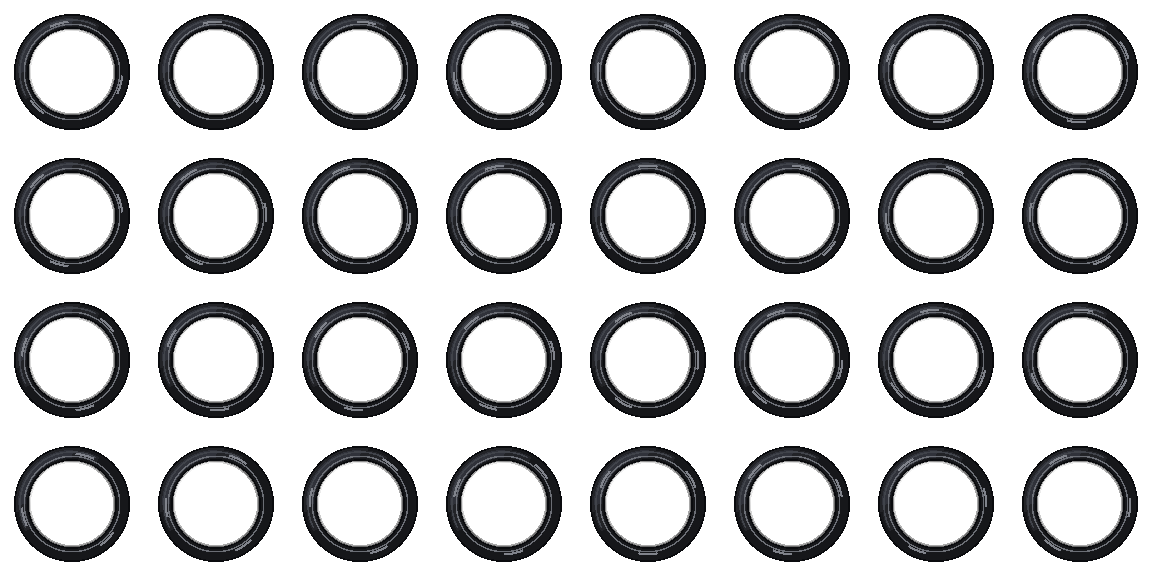
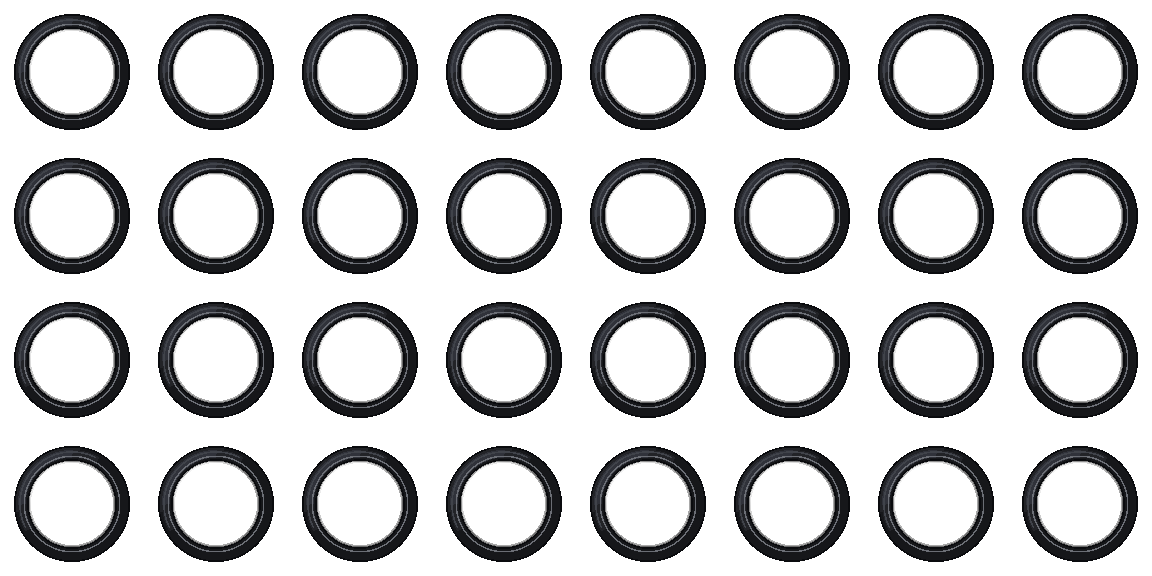
fix(trial): лес объездной рощами с просветами, шины без надписей
Вместо сплошной стены деревьев — композиция как на фото: дальний лес волнами в дымке, рощи по 2–7 деревьев с подростом и просветами неба, луг с сухой травой и редкими ёлочками перед лесом, у обочины — редкие отдельные берёзы (часто парой) и сосны. Тёмная глубина леса — одна плавная фигура без полос. С боковин шин убраны светлые надписи.

diff --git a/src/scenes/bypassWorld.js b/src/scenes/bypassWorld.js
@@ -611,31 +611,84 @@ function chunkObjects(seed, layer, ci, ppm) {
   const meterOf = (x) => x / (layer.k * ppm);
   const add = (kind, x, base, h, haze, w) =>
     list.push({ kind, x, base, h, haze, w, seed: Math.floor(r() * 2 ** 31) });
-  const tree = (b) => {
-    const v = r() * (b.birch + b.pine + b.spruce);
-    return v < b.birch ? 'birch' : v < b.birch + b.pine ? 'pine' : 'spruce';
+  // Плавная «волна» по x: лес то выше и гуще, то ниже и реже — как на опушке у дороги.
+  const wave = (x, len, salt) => {
+    const i = Math.floor(x / len);
+    const t = x / len - i;
+    const u = t * t * (3 - 2 * t);
+    return hash(seed, i, salt) * (1 - u) + hash(seed, i + 1, salt) * u;
   };
+  /**
+   * Рощи: деревья растут группами вокруг центров, между группами — просветы.
+   * Центры раскиданы по своей сетке (по сиду), поэтому соседние куски видят одни и те же рощи.
+   */
+  const groves = (cell, salt, fn) => {
+    for (let n = Math.floor(x0 / cell) - 1; n * cell < x0 + CW + cell; n++) {
+      const gr = rand(hash(seed, n, salt) * 2 ** 32);
+      const cx = n * cell + gr() * cell;
+      fn(cx, gr, n);
+    }
+  };
+  const inChunk = (x) => x >= x0 && x < x0 + CW;
 
   if (layer.id === 'far') {
-    for (let x = x0; x < x0 + CW; x += 2 + r() * 4) {
+    // Дальний лес — сплошная, но неровная полоса в дымке: верхушки волнами.
+    for (let x = x0; x < x0 + CW; x += 4 + r() * 7) {
       const b = biomeAt(seed, meterOf(x));
-      const kind = r() < b.spruce + b.pine * 0.5 ? 'spruce' : 'bush';
-      const h = kind === 'spruce' ? 40 + r() * 55 : 22 + r() * 22;
-      add(kind, x, 214 + r() * 6, h, 0.62 + r() * 0.1, h * 0.85);
-      if (b.clearing > 0.5 && r() < 0.004) add('farHouses', x, 222, 0, 0.5, 90);
+      const tall = 0.45 + 0.55 * wave(x, 140, 11);
+      const kind = r() < b.spruce + b.pine * 0.6 ? 'spruce' : 'bush';
+      const h = (kind === 'spruce' ? 30 + r() * 40 : 16 + r() * 16) * (0.5 + tall);
+      add(kind, x, 215 + r() * 5, h, 0.62 + r() * 0.1, h * 0.85);
+      if (b.clearing > 0.5 && r() < 0.006) add('farHouses', x, 222, 0, 0.5, 90);
     }
   } else if (layer.id === 'mid') {
-    for (let x = x0; x < x0 + CW; x += 9 + r() * 16) {
-      const b = biomeAt(seed, meterOf(x));
-      if (r() > b.density) {
-        if (b.clearing > 0.5 && r() < 0.05) add('hayBale', x, 228, 0, 0.25, 10);
-        continue;
+    // Лес за лугом: рощи по 2–7 деревьев с просветами неба между ними.
+    groves(70, 21, (cx, gr) => {
+      const b = biomeAt(seed, meterOf(cx));
+      if (gr() > b.density * 0.9 + 0.05) {
+        if (b.clearing > 0.5 && gr() < 0.4 && inChunk(cx)) add('hayBale', cx, 228, 0, 0.25, 10);
+        return;
       }
-      const kind = tree(b);
-      const h =
-        kind === 'pine' ? 160 + r() * 70 : kind === 'birch' ? 120 + r() * 70 : 110 + r() * 80;
-      add(kind, x, 218 + r() * 8, h, 0.18 + r() * 0.12, h * 0.35);
-    }
+      const tall = 0.6 + 0.4 * wave(cx, 220, 12);
+      const n = 2 + Math.floor(gr() * 6 * Math.min(1, b.density));
+      for (let i = 0; i < n; i++) {
+        const x = cx + (gr() + gr() - 1) * 28;
+        if (!inChunk(x)) continue;
+        const v = gr() * (b.birch + b.pine + b.spruce);
+        const kind = v < b.birch ? 'birch' : v < b.birch + b.pine ? 'pine' : 'spruce';
+        const h =
+          (kind === 'pine'
+            ? 150 + gr() * 60
+            : kind === 'birch'
+              ? 110 + gr() * 60
+              : 90 + gr() * 80) * tall;
+        list.push({
+          kind,
+          x,
+          base: 218 + gr() * 7,
+          h,
+          haze: 0.2 + gr() * 0.12,
+          w: h * 0.35,
+          seed: Math.floor(gr() * 2 ** 31),
+        });
+      }
+      // Подрост на опушке рощи: молодые ёлочки и кусты пониже.
+      for (let i = 0; i < 1 + gr() * 3; i++) {
+        const x = cx + (gr() - 0.5) * 70;
+        if (!inChunk(x)) continue;
+        const kind = gr() < 0.6 ? 'spruce' : 'bush';
+        const h = kind === 'spruce' ? 28 + gr() * 34 : 12 + gr() * 14;
+        list.push({
+          kind,
+          x,
+          base: 226 + gr() * 3,
+          h,
+          haze: 0.16,
+          w: 25,
+          seed: Math.floor(gr() * 2 ** 31),
+        });
+      }
+    });
   } else if (layer.id === 'back') {
     // Сооружения — редкие, в своих «окнах» по 6 кусков.
     const slot = Math.floor(ci / 6);
@@ -654,22 +707,46 @@ function chunkObjects(seed, layer, ci, ppm) {
         name: pick(rs, STOPS),
       });
     }
-    for (let x = x0; x < x0 + CW; x += 14 + r() * 30) {
-      const b = biomeAt(seed, meterOf(x));
-      if (r() < 0.3 + b.density * 0.3) add('bush', x, 229, 8 + r() * 12, 0.08, 15);
-    }
-  } else if (layer.id === 'near') {
-    for (let x = x0; x < x0 + CW; x += 30 + r() * 70) {
-      const b = biomeAt(seed, meterOf(x));
-      const v = r();
-      if (v < 0.18 * b.density) {
-        const kind = tree(b);
-        const h = kind === 'pine' ? 260 + r() * 80 : 200 + r() * 90;
-        add(kind, x, 233 + r() * 2, h, 0.04, h * 0.35);
-      } else if (v < 0.55) {
-        add(r() < 0.5 ? 'spruce' : 'bush', x, 233, 18 + r() * 30, 0.06, 25);
+    // Луг между дорогой и лесом: сухая трава и редкий подрост — ёлочки, сосенки, кусты.
+    for (let x = x0; x < x0 + CW; x += 2 + r() * 4)
+      add('grass', x, 229 + r() * 2, 6 + r() * 10, 0.1, 8);
+    groves(110, 31, (cx, gr) => {
+      const b = biomeAt(seed, meterOf(cx));
+      if (gr() > 0.35 + b.density * 0.3) return;
+      for (let i = 0; i < 1 + Math.floor(gr() * 3); i++) {
+        const x = cx + (gr() - 0.5) * 40;
+        if (!inChunk(x)) continue;
+        const kind = gr() < 0.45 ? 'spruce' : gr() < 0.6 ? 'pine' : 'bush';
+        const h =
+          kind === 'bush' ? 10 + gr() * 14 : kind === 'pine' ? 40 + gr() * 30 : 22 + gr() * 36;
+        list.push({ kind, x, base: 230, h, haze: 0.08, w: 30, seed: Math.floor(gr() * 2 ** 31) });
       }
-    }
+    });
+  } else if (layer.id === 'near') {
+    // Ближний план: редкие отдельные деревья у обочины — пара берёз, высокая сосна.
+    groves(260, 41, (cx, gr) => {
+      const b = biomeAt(seed, meterOf(cx));
+      if (gr() > 0.55 * Math.min(1, b.density + 0.2)) return;
+      const kind = gr() < b.birch + 0.25 ? 'birch' : gr() < 0.6 ? 'pine' : 'spruce';
+      const twin = kind === 'birch' && gr() < 0.5; // берёзы часто растут парой от одного корня
+      for (let i = 0; i < (twin ? 2 : 1); i++) {
+        const x = cx + i * (6 + gr() * 6);
+        if (!inChunk(x)) continue;
+        const h =
+          kind === 'pine' ? 250 + gr() * 70 : kind === 'birch' ? 210 + gr() * 70 : 150 + gr() * 70;
+        list.push({
+          kind,
+          x,
+          base: 233 + gr() * 2,
+          h,
+          haze: 0.03,
+          w: h * 0.35,
+          seed: Math.floor(gr() * 2 ** 31),
+        });
+      }
+    });
+    for (let x = x0; x < x0 + CW; x += 40 + r() * 90)
+      if (r() < 0.5) add(r() < 0.55 ? 'spruce' : 'bush', x, 234, 14 + r() * 22, 0.05, 25);
     for (let x = x0; x < x0 + CW; x += 3 + r() * 5) add('grass', x, 234, 8 + r() * 12, 0.05, 8);
   }
   return list;
@@ -967,19 +1044,32 @@ export class BypassWorld {
       ctx.fillRect(x0, 212, CW, 22);
     }
     if (spec.id === 'mid') {
-      // Глубина леса: чем гуще участок, тем темнее и выше тёмная стена за стволами.
-      for (let x = x0; x < x0 + CW; x += 2) {
-        const b = biomeAt(this.seed, x / (spec.k * this.ppm));
-        const top =
-          224 - (60 + 70 * Math.min(1, b.density)) * (0.85 + 0.15 * hash(this.seed, x >> 3, 71));
-        const g = ctx.createLinearGradient(0, top, 0, 224);
-        g.addColorStop(0, 'rgba(38,58,44,0)');
-        const d = Math.min(1, b.density);
-        g.addColorStop(0.35, 'rgba(34,52,40,' + 0.55 * d + ')');
-        g.addColorStop(1, 'rgba(24,38,30,' + 0.9 * d + ')');
-        ctx.fillStyle = g;
-        ctx.fillRect(x, top, 2, 224 - top);
+      // Глубина леса: сплошная тёмная стена за рощами с плавным неровным верхом —
+      // выше и темнее там, где лес гуще. Одна фигура, без полос.
+      const smooth = (x) => {
+        const len = 90;
+        const i = Math.floor(x / len);
+        const t = x / len - i;
+        const u = t * t * (3 - 2 * t);
+        return hash(this.seed, i, 71) * (1 - u) + hash(this.seed, i + 1, 71) * u;
+      };
+      let dens = 0;
+      ctx.beginPath();
+      ctx.moveTo(x0 - 4, 224);
+      for (let x = x0 - 4; x <= x0 + CW + 4; x += 6) {
+        const d = Math.min(1, biomeAt(this.seed, x / (spec.k * this.ppm)).density);
+        dens += d;
+        ctx.lineTo(x, 224 - (30 + 60 * d) * (0.7 + 0.3 * smooth(x)));
       }
+      ctx.lineTo(x0 + CW + 4, 224);
+      ctx.closePath();
+      const avg = dens / ((CW + 8) / 6 + 1);
+      const g = ctx.createLinearGradient(0, 130, 0, 224);
+      g.addColorStop(0, 'rgba(40,60,46,0)');
+      g.addColorStop(0.45, 'rgba(36,54,42,' + (0.35 * avg).toFixed(3) + ')');
+      g.addColorStop(1, 'rgba(26,40,32,' + (0.75 * avg).toFixed(3) + ')');
+      ctx.fillStyle = g;
+      ctx.fill();
       ctx.fillStyle = mix('#7a7a52', 0.15);
       ctx.fillRect(x0, 222, CW, 12);
     }
